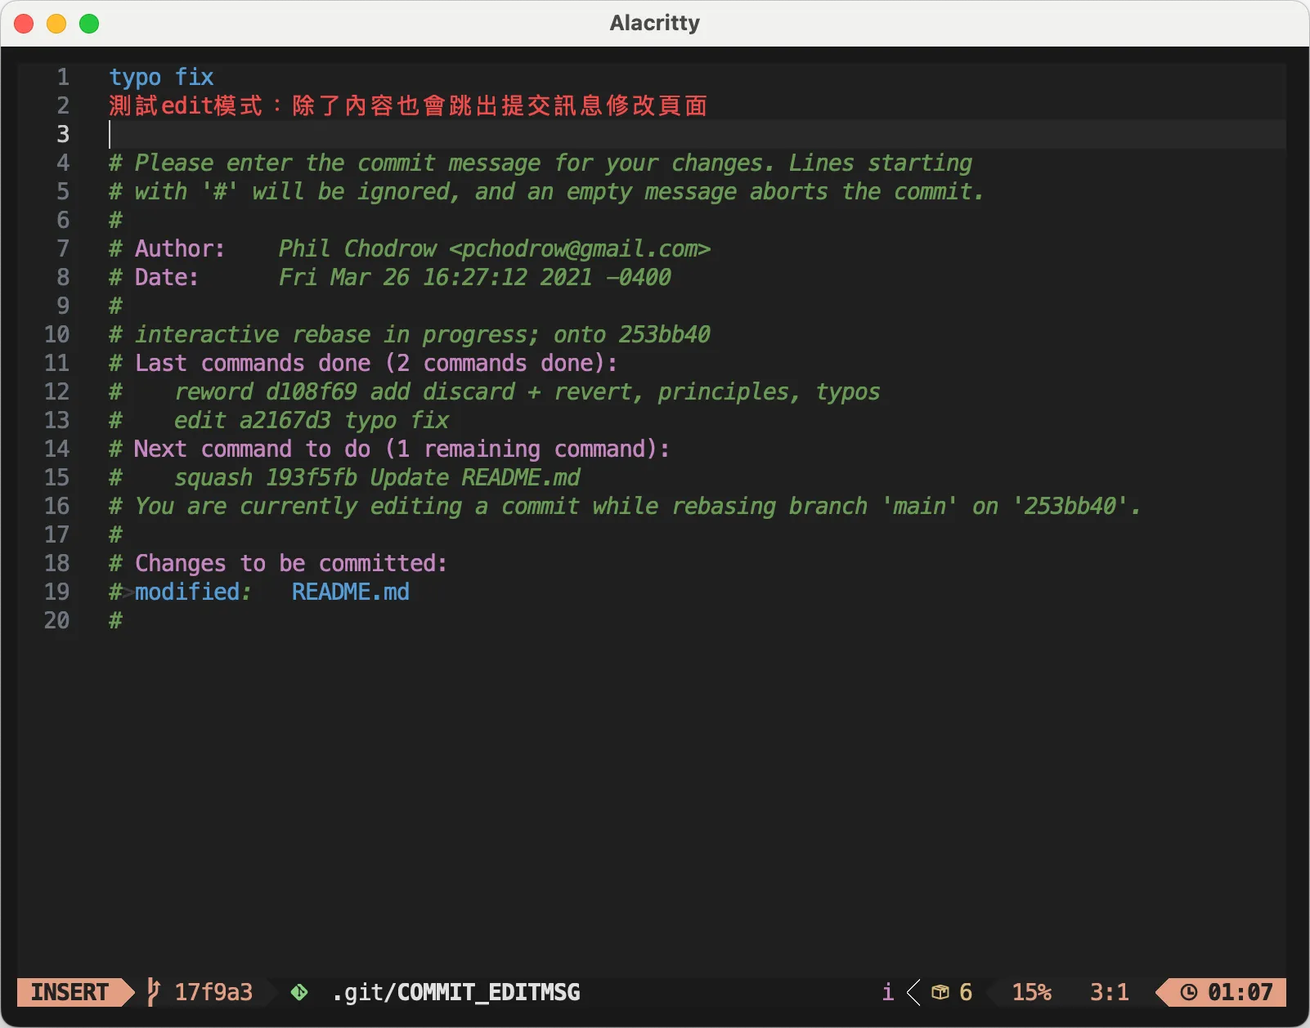
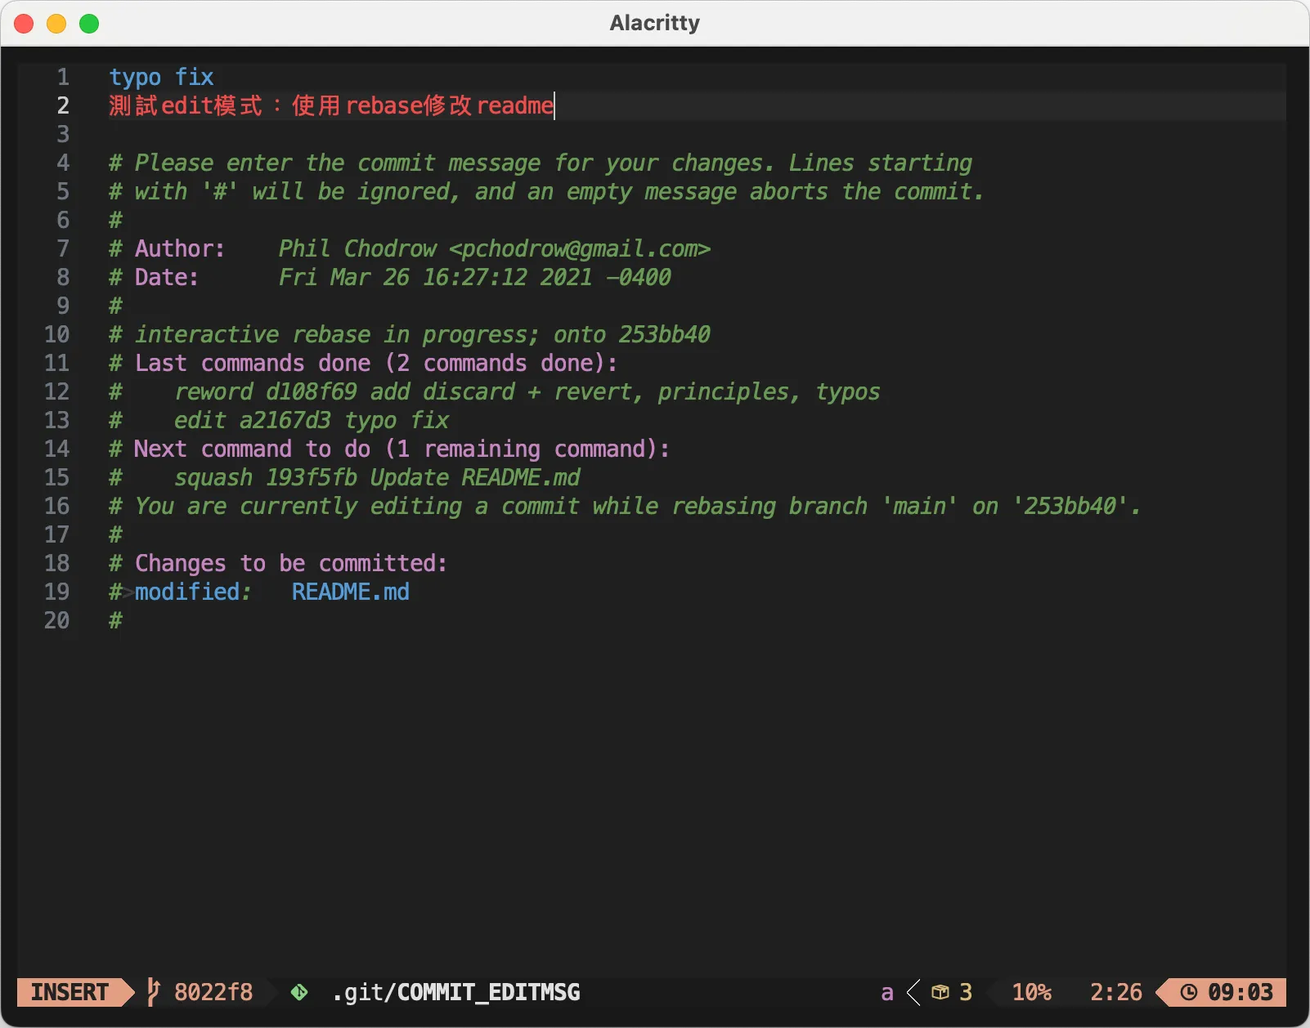
update

Changed region(s): [[0.2185, 0.093, 0.5618, 0.124], [0.1248, 0.961, 0.1873, 0.9921], [0.8427, 0.961, 0.8739, 0.9921]]

diff --git a/docs/git/10-preliminaries/30-basic-knowledge.md b/docs/git/10-preliminaries/30-basic-knowledge.md
@@ -74,17 +74,19 @@ gitGraph
 
 > 此段落修改自[官方說明](https://git-scm.com/book/zh-tw/v2/%E9%96%8B%E5%A7%8B-Git-%E5%9F%BA%E7%A4%8E%E8%A6%81%E9%BB%9E)：三種狀態
 
-前一個段落我們介紹完 Git 的宏觀用法，接下來我們來介紹他是如何運作的。Git 實際運作可以分為三個層面理解，分別是硬碟、本地儲存庫 (專案的 .git 資料夾)、遠端儲存庫 (Github/Gitlab)。你的硬碟不知道任何版本資訊，只負責儲存檔案當前狀態；儲存庫是專案的 .git 資料夾，此資料夾會紀錄所有版本資訊；遠端儲存庫則是最後上傳共享提交歷史的地方。撰寫程式時，每次想要紀錄版本就<u>**提交**</u>一個版本到本地儲存庫，完成一個段落後使用<u>**推送**</u>功能，將提交推送到所有成員共用的遠端儲存庫進行協作開發。
+前一個段落我們介紹完 Git 的宏觀用法，接下來我們來介紹他是如何運作的。Git 實際運作可以分為三個層面理解，分別是硬碟、本地儲存庫 (專案的 .git 資料夾)、遠端儲存庫 (Github/Gitlab)。你的硬碟不知道任何版本資訊，只負責儲存檔案當前狀態；本地儲存庫是專案目錄中的 .git 資料夾，此資料夾會紀錄所有版本資訊；遠端儲存庫則是最後上傳共享提交歷史的地方。撰寫程式時，每次想要紀錄版本就<u>**提交**</u>一個版本到本地儲存庫，完成一個段落後使用<u>**推送**</u>功能，將提交推送到遠端儲存庫，和其他成員進行協作開發。
 
 :::info DVCS: 分散式版本控制
 
-這個段落描述的版本控制系統架構描述了每個開發人員都有完全相同的提交歷史鏡像，這種架構稱為分散式版本控制系統，不是很重要但是順手解釋搜尋會看到的詞彙。另外 Git 是快照系統而不是差異系統，不知道也完全不影響理解和使用，所以本文省略介紹。
+這個段落描述的版本控制系統架構描述了每個開發人員都有完全相同的提交歷史鏡像，這種架構稱為分散式版本控制系統。除此之外，另外 Git 是快照系統而不是差異系統。
+
+不是很重要的知識，看過就好。
 
 :::
 
 ## Git 的檔案狀態{#file-status}
 
-也就是說真正負責管理版本歷史的只有本地端的儲存庫，遠端只是負責同步的鏡像版本，接下來我們說明他是如何管理檔案的。Git 會把檔案標記為三種狀態，分別是已提交（committed）、已預存（staged）和已修改（modified）：
+也就是說真正負責管理版本歷史的只有本地端的儲存庫，遠端只是負責同步的鏡像版本，所以接下來我們說明本地儲存庫是如何管理檔案的。Git 會把檔案標記為三種狀態，分別是已提交（committed）、已預存（staged）和已修改（modified）：
 
 1. **已提交**: 檔案己安全地存在你的本地儲存庫
 2. **已預存**: 已將修改的檔案新增至索引，準備提交至儲存庫（準備被提交但是尚未提交）
@@ -98,7 +100,7 @@ gitGraph
 
 1. <u>工作目錄 (working directory, 硬碟)</u> 中的檔案修改後會進入已修改狀態
 2. 使用 `git add` 將檔案放進<u>預存區 (staging area)</u>
-3. 完成程式碼修改後使用 `git commit` 將預存區的檔案提交到<u>本地儲存庫 (repository)</u>，儲存庫如圖所示是一個名稱為 `.git` 的資料夾
+3. 完成程式碼修改後使用 `git commit` 將預存區的檔案提交到<u>本地儲存庫 (repository)</u>
 4. 想要還原到過往版本時，使用 `git checkout` 把以前的版本簽出[^checkout]，放進「工作目錄」中。
 
 [^checkout]: 官方將 checkout 翻譯為簽出，這個指令的行為是「從儲存庫取出該版本放回硬碟」，用途非常廣泛。
@@ -119,8 +121,6 @@ gitGraph
 
 ## 結尾
 
-現在你已經知道 Git 如何運作了，所有成員的儲存庫，也包含遠端儲存庫都是完全相同的鏡像儲存庫，每個提交由 hash 標注上獨一無二的標籤並且連著前一個提交，每個成員推送各自的提交到遠端儲存庫以共享進度，以及拉取遠端儲存庫的提交到本地儲存庫中以更新其他成員的提交。
-
-在本地時可以預存檔案，決定要提交時就使用 `git commit` 把預存的檔案放到儲存庫變成正式的提交，再完成推送作業。想要回溯歷史時，`git checkout` 就可以從儲存庫簽出舊版檔案，這樣就是一般的作業流程了。
+現在你已經知道 Git 如何運作了，在本地可以預存檔案，決定要提交時就使用 `git commit` 把預存的檔案放到儲存庫變成正式的提交。所有成員的儲存庫包含遠端儲存庫都是完全相同的鏡像，每個成員可以推送各自的提交到遠端儲存庫以共享進度，以及拉取遠端儲存庫更新的提交到本地儲存庫中。想要回溯歷史時，`git checkout` 就可以從儲存庫簽出舊版檔案，這樣就是一般的作業流程了。
 
 接下來請跳到[一分鐘入門](/git/beginner/one-minute)，序章的其他文章初學者暫時用不到。

diff --git a/docs/git/30-history-manipulation/30-interactive-rebase.md b/docs/git/30-history-manipulation/30-interactive-rebase.md
@@ -17,9 +17,7 @@ first_publish:
 
 import EmblaCarousel from '@site/src/components/EmblaCarousel';
 
-使用 `git rebase -i` 可進行互動式變基，這個指令用途強大並且簡單易懂，使用時可以把腦袋丟掉不用像一般的 rebase 還要背[口訣](./rebase#口訣)。
-
-筆者使用這個的頻率比 `merge` `reset` 等指令高多了，這應該是 git 最強大的指令，包含移動提交、刪除提交、修改提交內容、修改提交訊息全部都可以做到。原理仍舊是基於變基但是使用時完全不會感覺到分支操作，如果不清楚原理筆者也寫了 [使用變基 Rebase 合併分支提交](./rebase) 介紹。互動式變基常用的選項有五個：
+互動式變基是 Git 最強大的指令，包含移動提交、刪除提交、修改提交內容、修改提交訊息全部都可以做到。原理仍舊是基於變基，但是使用時完全不會感覺到分支操作。互動式變基常用的選項有五個：
 
 - **p, pick**：預設，選擇該提交  
 - **r, reword**：修改提交訊息  
@@ -39,6 +37,8 @@ import image6 from './data/rebase-6.webp';
 import image7 from './data/rebase-7.webp';
 import image8 from './data/rebase-8.webp';
 
+我們使用範例 repo 對最近的三個提交分別進行 reward, edit 和 squash 操作。
+
 ```sh
 # 複製範例 repo
 git clone https://github.com/PIC16B/git-practice -q && cd git-practice
@@ -47,7 +47,7 @@ git clone https://github.com/PIC16B/git-practice -q && cd git-practice
 git rebase -i HEAD~3
 ```
 
-接下來就會進入互動式變基的修改頁面，預設都是 pick 也就是不改變，從上到下分別是由舊到新。我們把三個 pick，由上到下依序改為 r (reward 修改提交訊息) e (edit 編輯提交) s (squash 合併到前一個提交)，修改完如圖一，之後按下 `Esc` 回到 Vim 命令模式，輸入 `wq` 儲存並離開
+接下來就會進入互動式變基的修改頁面，預設都是 pick 也就是不改變，從上到下分別是由舊到新。我們把三個 pick，由上到下依序改為 r (reward 修改提交訊息) e (edit 編輯提交) s (squash 合併到前一個提交)，修改完的結果如圖，之後按下 `Esc` 回到 Vim 命令模式，輸入 `wq` 儲存並離開
 
 ![rebase1](./data/rebase-1.webp)
 
@@ -55,7 +55,7 @@ git rebase -i HEAD~3
 
 ![rebase2](./data/rebase-2.webp)
 
-接著進入 edit 修改模式，edit 模式中可以任意更改，我們修改 README.md 文件，簡單加上一句測試文字，這裡要注意，如果只是要修改提交，改完後使用 `git add README.md` 預存之後使用 `git rebase --continue`，跳出提交訊息修改視窗，儲存結束後進入下一次互動式提交
+接著進入 edit 修改模式，edit 模式中可以任意更改，我們修改 README.md 文件，簡單加上一句測試文字，這裡要注意，如果只是要修改提交，改完後使用 `git add README.md` 預存，再使用 `git rebase --continue` 前往下一個 rebase 作業，不需要使用 `git commit`。輸入 `git rebase --continue` 後會跳出提交訊息修改視窗，修改完成就會進入下一個提交的變基
 
 :::tip
 
@@ -64,7 +64,7 @@ git rebase -i HEAD~3
 :::
 
 <EmblaCarousel
-  images={[image4, image5]}
+  images={[image4, image5, image6]}
   options={{ loop: true }}
 />
 
@@ -72,7 +72,7 @@ git rebase -i HEAD~3
 
 ![rebase7](./data/rebase-7.webp)
 
-最後我們使用 `git log` 檢查，提交訊息確實被修改，最新的提交也確實被合併了。
+使用 `git log` 檢查，發現提交訊息確實被修改，最新的提交也確實被合併了。
 
 ![rebase8](./data/rebase-8.webp)
 

diff --git a/docs/git/00-introduction.md b/docs/git/00-introduction.md
@@ -24,16 +24,16 @@ first_publish:
 2. 只介紹指令
 3. 過於細節
 4. 自創名詞
-5. 近況聊天等等的廢話太多
+5. 近況聊天等等無關緊要的廢話太多
 6. 放一堆 commit hash 和擷圖看的眼花撩亂
 7. 文章過長消耗耐心或是過短頻繁換頁
 8. 沒有 ToC 目錄根本不知道自己讀到哪
 9. 沒寫完的系列文章
 10. 甚至連內容都是錯的
 
-[^note]: 基本上大多數的文章都會落入其中一項，除了第一項只是不熟悉寫作以外，問題 2\~4 是非常糟糕的文章，這種類型的文章是寫身體健康不是寫來讓別人看懂的，尤其是第四點我深惡痛絕，初學者學完後反而還要花時間驗證自己讀的名詞到底哪個才是對的；5\~7 也是很嚴重的問題，我不想知道你最近發生什麼事工作上遇到什麼問題，我只想快點找到我的狀況是否符合這個問題並且解決，而且放一堆 hash 截圖導致文章又臭又長，閱讀還要對照 hash 是一件非常愚蠢的事；8\~9 就不能怪作者，但還是為讀者帶來很多困擾。
+[^note]: 基本上大多數的文章都會落入其中一項，除了第一項只是不熟悉寫作以外，問題 2\~4 是非常糟糕的文章，這種類型的文章是寫身體健康不是寫來讓別人看懂的，尤其是第四點我深惡痛絕，初學者學完還要花時間驗證自己讀的名詞到底哪個才是對的；5\~7 也是很嚴重的問題，我不想知道你最近發生什麼事工作上遇到什麼問題，我只想快點找到我的狀況是否符合這個問題並且解決，而且放一堆 hash 截圖導致文章又臭又長，閱讀還要對照 hash 是一件非常愚蠢的事；8\~9 就不能怪作者但如果能改善的話那當然最好。
 
-網路上簡單搜尋一下就可以發現很多文章都或多或少都有這些問題。撰寫時除了避免這些問題，在筆者學習 Git 的過程中最煩躁的點就是目標操作只是一行指令，卻要在網路上過濾數篇文章非常浪費時間，而且初學者對於自己的使用情境不了解，不知道要用哪些組合，所以本教學以這個邏輯完成：<u>**先學基本操作，再學進階操作，先有狀況情境，再學使用方式**</u>。
+網路上簡單搜尋一下就可以發現很多文章都或多或少都有這些問題。除此之外，我注意到初學者常見的問題是明明問題只需要一行指令就可解決，卻要在網路上過濾數篇文章非常浪費時間，所以本教學以這個邏輯完成：<u>**先學基本操作，再學進階操作，先有狀況情境，再學使用方式**</u>。
 
 我的想法是對於一個工具，使用者只要知道工具的目的以及如何使用，不必知道工具是怎麼做出來的，學會基本使用方式再去了解延伸功能，這才是正確的使用方式，而不是一開始就要學原理卻不會用（過於細節），或是直接丟給讀者兩百頁使用說明卻不知道該從哪裡讀起（只介紹指令），或者學的東西到其他地方看卻發現不一樣（自創名詞）。為了解決以上問題，本系列文章
 

diff --git a/docs/git/10-preliminaries/60-read-git-docs.md b/docs/git/10-preliminaries/60-read-git-docs.md
@@ -19,7 +19,7 @@ first_publish:
 
 本文教你如何閱讀 Git 文檔，初學者可以放心的跳過這個章節，因為很多教學文章的作者，甚至是已經出書的作者本身也看不懂文檔，所以就算讀不懂還是可以快樂的使用 Git。本文的目標是解析最難懂的指令：`git rebase --onto`。
 
-你說我怎麼知道他們看不懂文檔，因為他們給的範例指令是錯的，如果看過文檔就不會那樣用，而且還不是一兩篇，google `git rebase` 就知道了，超過一半的文章使用方式錯誤。
+你說我怎麼知道他們看不懂文檔，因為他們給的範例指令是錯的，如果看過文檔就不會那樣用。
 
 ## 讀懂文檔
 
@@ -31,12 +31,6 @@ git reset [-q] [--pathspec-from-file=<file> [--pathspec-file-nul]] [<tree-ish>]
 git reset (--patch | -p) [<tree-ish>] [--] [<pathspec>…]
 git reset [--soft | --mixed [-N] | --hard | --merge | --keep] [-q] [<commit>]
 ```
-
-:::info
-
-Git 雖然遵照 [POSIX 規範](https://pubs.opengroup.org/onlinepubs/9699919799/basedefs/V1_chap12.html)但是也沒有完全遵照，Git 官方的 [CodingGuidelines](https://github.com/git/git/blob/master/Documentation/CodingGuidelines) 第一句話說明不是所有語法都遵循 POSIX 建議。
-
-:::
 
 接下來解釋符號，在 git 文檔中基本上會看到以下幾種
 
@@ -53,12 +47,18 @@ Git 雖然遵照 [POSIX 規範](https://pubs.opengroup.org/onlinepubs/9699919799
 
 <br/>
 
-接著我們解釋每一種用法的表達意思
+有這些背景知識之後就可以開始解讀了，每一種用法的意思如下：
 
 - 第一類表示 pathspec 必填並且可出現多次，其餘選填
 - 第二類表示 `--pathspec-from-file` 選填，使用時必定要加上 `=<path/to/file>`，如果使用該參數可以再選填 `--pathspec-file-nul`
 - 第三類使用圓括弧表示要使用 `--patch | -p` 才能對應此類用法，也就是作者特地把方括弧換成圓括弧提醒你啟用這類用法的必要參數
 - 第四類表示在這些 `|` 隔開的類型只能選一個，使用 `--mixed` 選項可以額外再啟用 `-N` 可選項
+
+:::info
+
+Git 雖然遵循 [POSIX 慣例](https://pubs.opengroup.org/onlinepubs/9699919799/basedefs/V1_chap12.html) 但是又沒有完全遵循，Git 官方的 [CodingGuidelines](https://github.com/git/git/blob/master/Documentation/CodingGuidelines) 第一句話說明不是所有語法都遵循 POSIX 慣例。
+
+:::
 
 ## 解讀 git rebase --onto
 

diff --git a/docs/git/30-history-manipulation/20-rebase.md b/docs/git/30-history-manipulation/20-rebase.md
@@ -70,7 +70,9 @@ feature                    A1'--B1'--C1'
 
 所以總共只有三步驟，找到共同祖先，以祖先為起點開始尋找目標提交，重演這些提交。
 
-> 重演 (replay)，用於表示不只是簡單的將提交複製貼上，而是會重新生成 commit hash。
+:::tip 重演 (replay)
+不只是簡單的將提交複製貼上，而是會重新生成 commit hash。
+:::
 
 ## 口訣
 
@@ -105,7 +107,7 @@ git rebase main feature-1
 git rebase main feature-2
 ```
 
-只要看懂文檔任何人就不會犯這種錯，因為文檔就是這樣用的，很可惜大家都錯了。如果你不相信筆者，那麼請看 [官方文檔](https://git-scm.com/docs/git-rebase/zh_HANS-CN) 或是教學書 [Pro Git](https://iissnan.com/progit/html/zh-tw/ch3_6.html)，如果還是很疑惑，那麼 Python Core Dev，微軟安全部門工程師拍的影片[十分钟学会正确的github工作流，和开源作者们使用同一套流程](https://www.youtube.com/watch?v=uj8hjLyEBmU&t=439s&pp=ygUM56K86L6y6auY5aSp)他也是這樣用。
+只要看懂文檔任何人就不會犯這種錯，因為文檔就是這樣用的，很可惜大家都錯了。如果你不相信筆者，那麼請看 [官方文檔](https://git-scm.com/docs/git-rebase/zh_HANS-CN) 或是教學書 [Pro Git](https://iissnan.com/progit/html/zh-tw/ch3_6.html)，如果還是很疑惑，那麼 Python Core Dev，微軟安全部門工程師拍的影片[十分钟学会正确的github工作流，和开源作者们使用同一套流程](https://www.youtube.com/watch?v=uj8hjLyEBmU&t=439s&pp=ygUM56K86L6y6auY5aSp)也是這樣用。
 
 :::danger 再提醒一次
 
@@ -119,7 +121,7 @@ git rebase main feature-2
 
 ## 翻譯：變基和衍合
 
-rebase 中文有變基和衍合兩種翻譯，衍為散佈、滋生，我看不出來 rebase 從單字、處理方式到用途哪裡跟衍有關係，所以我投變基一票。
+rebase 中文有變基和衍合兩種翻譯，衍代表散佈、滋生，我看不出來 rebase 從單字、處理方式到用途哪裡跟衍有關係，所以我投變基一票。
 
 ## 參考
 

diff --git a/docs/git/30-history-manipulation/10-edit-commits.md b/docs/git/30-history-manipulation/10-edit-commits.md
@@ -22,9 +22,10 @@ first_publish:
 
 以下是預備知識
 
+- <u>**大部分都用互動式變基完成，操作方式請見[使用互動式變基任意修改提交歷史](./interactive-rebase)**</u>。
 - `hash^` 的 `^` 代表該 hash 的前一個提交，`~n` 代表前 n 個提交。
 - `--amend` 可以加上 `--no-edit` 表示不修改 commit 訊息。
-- rebase 如果是需要跳到以前進行修改的，git 都會自動幫你 checkout ，這時候查看 `git status` 會顯示「互動式重定基底動作正在進行中」，使用 `git branch` 查看則會顯示目前分支為「無分支，重定 main 的基底」 (no branch, rebasing main)。
+- rebase 時 git 會自動幫你 checkout，這時候查看 `git status` 會顯示「互動式重定基底動作正在進行中」，使用 `git branch` 查看則會顯示目前分支為「無分支，重定 main 的基底」 (no branch, rebasing main)。
 - 遇到合併衝突請看[如何解決合併衝突](../preliminaries/keyword#進階)，實際操作過才會清楚。
 
 ## 修改提交訊息{#edit-commit-message}
@@ -55,10 +56,12 @@ first_publish:
 
 1. `git rebase -i hash^`
 2. 該 hash 前面改成 edit 或者縮寫 e
-3. 修改文件後加入追蹤 `git add <file name>`，注意不需提交[^rebase-commit]
+3. 修改文件後加入追蹤 `git add <file name>`，注意不需提交
 4. 完成 rebase `git rebase --continue`
 
-[^rebase-commit]: 提交的話會提交歷史會新增一個額外的提交紀錄。
+:::info
+互動式變基過程中不需使用 `git commit`，使用的話會變成插入一個新的提交紀錄。
+:::
 
 ## 合併提交{#squash-commits}
 

diff --git a/docs/git/20-beginner/20-step-above-basic.md b/docs/git/20-beginner/20-step-above-basic.md
@@ -153,6 +153,13 @@ git reset --soft HEAD~3   # 清除前三個提交
 
 這個指令會取消最新的提交，但保留所有程式碼修改，使用 `git commit --amend` 也可達成相同效果（但是 amend 僅限最近一次提交）。
 
+:::info
+
+1. HEAD 代表目前工作的 commit 位置
+2. "^" 代表前一個提交，"~n" 代表前 n 個提交
+
+:::
+
 ### 放棄未提交的修改
 
 結束測試性的修改後，直接回到上一次提交，這會連程式碼全部刪除，需要謹慎使用。
@@ -175,13 +182,6 @@ git reset HEAD~3
 ### 補充說明
 
 reset 指令不常用，原因是這些情境都能被更方便的互動式變基 (interactive rebase) 取代，最常用的應該只有從遠端還原。
-
-:::info
-
-1. HEAD 代表目前工作的 commit 位置
-2. "^" 代表前一個提交，"~n" 代表前 n 個提交
-
-:::
 
 :::danger
 
@@ -218,4 +218,4 @@ $ git reset --hard HEAD@{4}
 
 ## 結語
 
-到這邊就結束單一分支的操作，你已經可以基本的操作 Git 了，在[下一篇文章](./branch)中我們會介紹多分支操作。在初學階段個人使用時不太會用到分支功能，根據需求可以快轉到[遠端儲存庫設定](../remote/setup)。
+到這邊就結束單一分支的操作，你已經可以基本的操作 Git 了，[下一篇文章](./branch)會介紹多分支操作。在初學階段個人使用時不太會用到分支功能，根據需求可以快轉到[遠端儲存庫設定](../remote/setup)。

diff --git a/docs/git/20-beginner/40-conventional-commit.md b/docs/git/20-beginner/40-conventional-commit.md
@@ -67,16 +67,13 @@ drission_bot.py
 
 [Conventional Commits](https://www.conventionalcommits.org/en/about/) 列出很多工具可以使用，這裡整理出 stars 最多的幾個：
 
-- 不需要 npm 的
-  1. [commitizen](https://github.com/commitizen-tools/commitizen)
-  2. [commitlint](https://commitizen-tools.github.io/commitizen/)
+1. [commitizen](https://github.com/commitizen-tools/commitizen)
+2. [commitlint](https://commitizen-tools.github.io/commitizen/)
+3. [cz-cli](https://github.com/commitizen/cz-cli)
+4. [standard-version](https://github.com/conventional-changelog/standard-version)
+5. [semantic-release](https://github.com/semantic-release/semantic-release)
 
-- 需要 npm 的
-  1. [cz-cli](https://github.com/commitizen/cz-cli)
-  2. [standard-version](https://github.com/conventional-changelog/standard-version)
-  3. [semantic-release](https://github.com/semantic-release/semantic-release)
-
-還有自動化 CHANGELOG 工具 [git-cliff](https://github.com/orhun/git-cliff)，以及很多人用並且有好心人士繁體中文化的 [lazygit](https://github.com/jesseduffield/lazygit) TUI (terminal ui) 工具。
+還有自動化 CHANGELOG 工具 [git-cliff](https://github.com/orhun/git-cliff)。
 
 ## 自動化
 

diff --git a/docs/git/20-beginner/30-branch.md b/docs/git/20-beginner/30-branch.md
@@ -124,7 +124,7 @@ git merge feature-branch
 
 ## 變基 git rebase
 
-先解釋名詞變基，意思是「變換」目前分支的「基底」，用於取代 `git merge`，因為我們不想讓提交歷史到處都是合併的結構導致閱讀和管理困難。由於比較複雜只講解他的基本邏輯：
+先解釋名詞變基，意思是「變換」目前分支的「基底」，用於取代 `git merge`，目的是簡化提交歷史，避免到處都是合併的結構導致閱讀和管理困難。由於比較複雜只講解他的基本邏輯：
 
 :::tip 口訣
 
@@ -141,7 +141,7 @@ git merge feature-branch
 
 ## 任意修改提交歷史 git rebase -i
 
-互動式變基 (interactive rebase) 使用變基的原理實現對提交歷史進行任意修改，同時<u>**使用方式非常簡單**</u>，請見我寫的文章：[使用互動式變基任意修改提交歷史](../history-manipulation/interactive-rebase)。
+互動式變基 (interactive rebase) 使用變基的原理實現對提交歷史進行任意修改，同時<u>**使用方式非常簡單**</u>，請見[使用互動式變基任意修改提交歷史](../history-manipulation/interactive-rebase)。
 
 :::danger
 

diff --git a/docs/git/50-remote/70-setup.md b/docs/git/50-remote/70-setup.md
@@ -17,14 +17,14 @@ first_publish:
 
 # Git 遠端儲存庫設定
 
-SSH 連線設定和 GPG 簽名選了兩篇照著做就對的文章，網路上已經有的且優質的文章不需要重造輪子。
+本文設定 SSH 連線和 GPG 簽名，選了兩篇照著做就對的文章，已經有優質文章就不需要重造輪子。
 
 ## 設定 SSH
 
 Github 已不支援帳號密碼登入，只能用 SSH 認證。  
 
 1. [產生ssh金鑰](https://www.maxlist.xyz/2022/12/22/github-ssh-setting/)
-2. (選用) 避免使用私人電子郵件：隱藏信箱Setting>Email勾選 "Block command line pushes that expose my email"
+2. (選用) 避免使用私人電子郵件：隱藏信箱Setting>Email勾選 "Block command line pushes that expose my email"，這個設定會阻止你使用個人信箱推送，如果提交的 email 不是步驟三的隱藏信箱就會被阻止
 3. (選用) 隱藏信箱，請到 `https://api.github.com/users/你的github名稱` 找到 id 欄位並且設定
 
 ```sh
